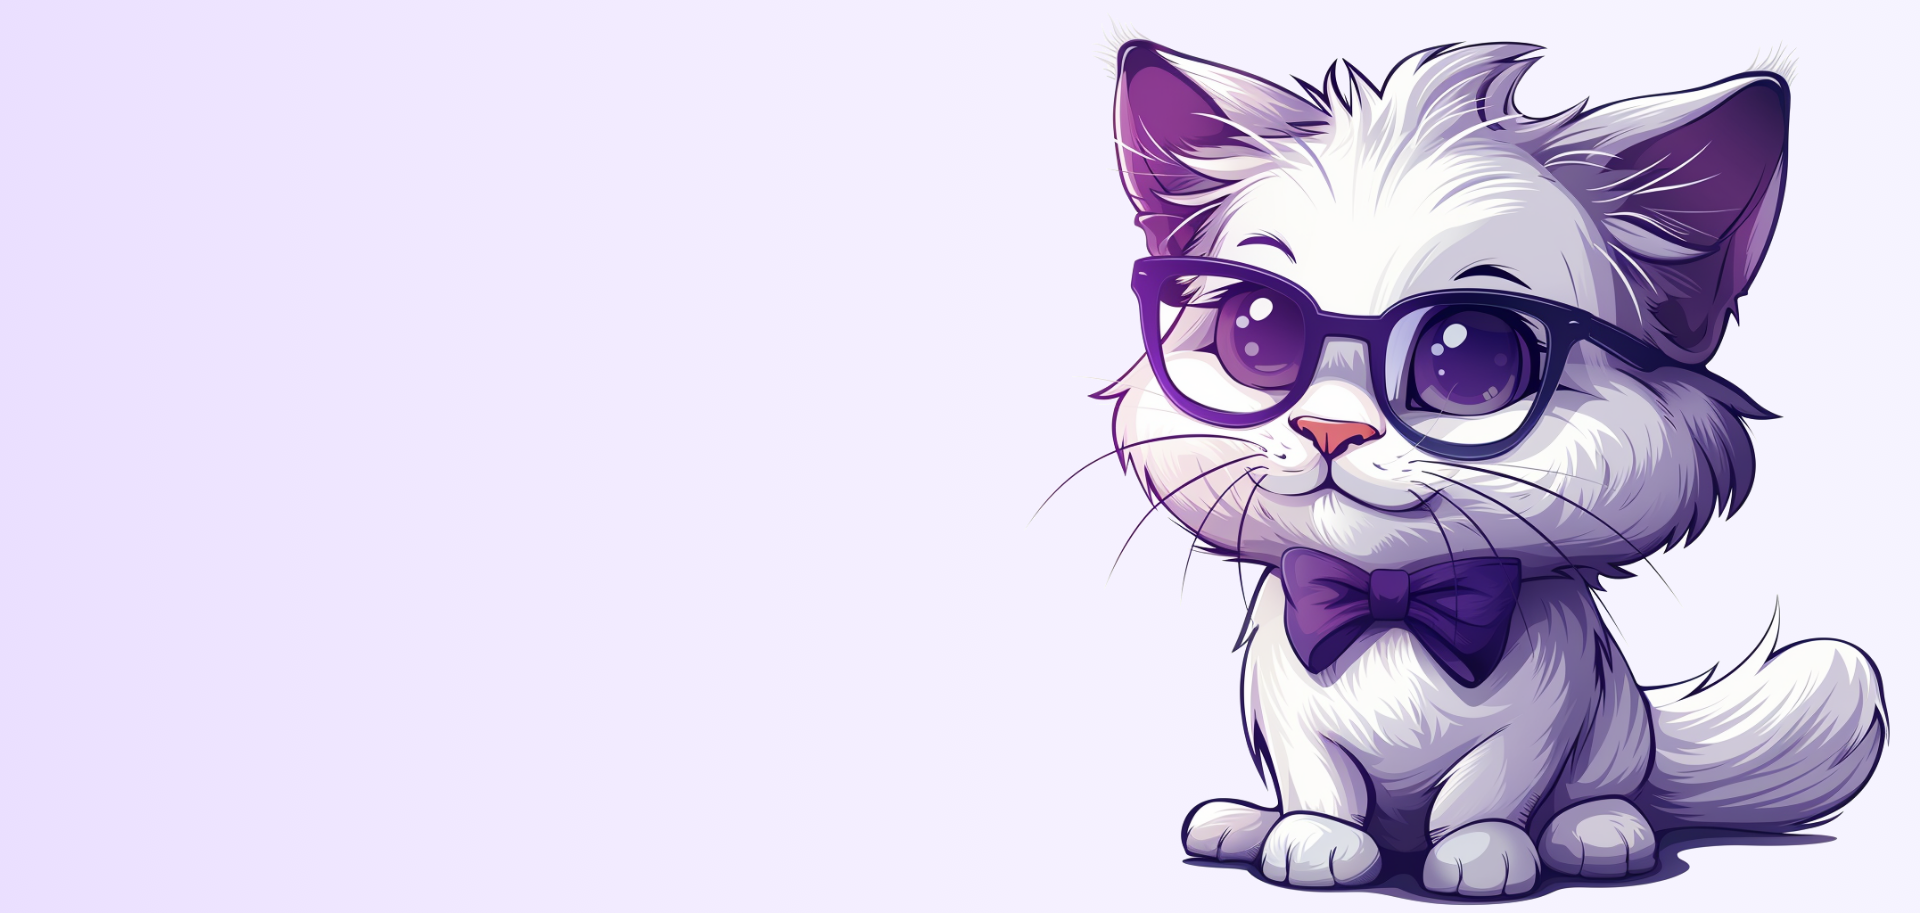
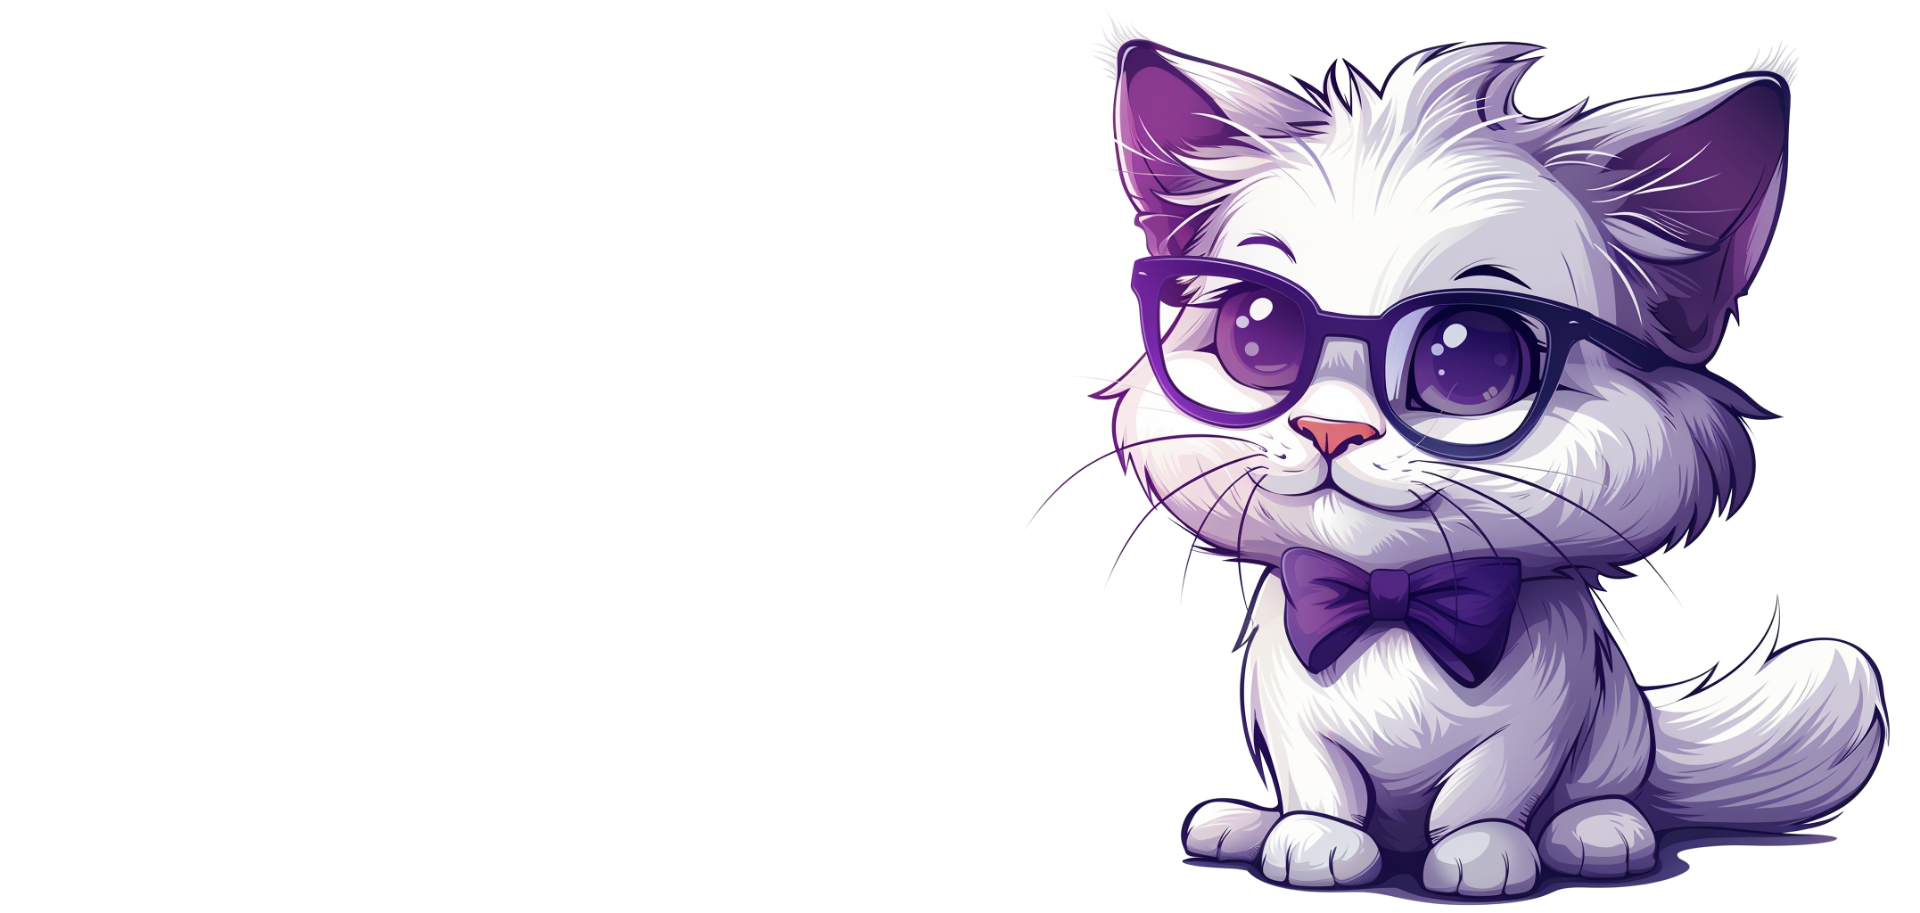
hero

Changed region(s): [[0.0, 0.0, 0.1875, 1.0]]

diff --git a/components/Hero.tsx b/components/Hero.tsx
@@ -1,16 +1,45 @@
+import Image from "next/image"
+
 const Hero = () => {
   return (
-    <section id="home" className="h-[80vh] bg-blue-300 lg:h-[912px]">
-      <div className="max-auto container">
-        <div className="flex h-full justify-end pt-48">
-          <div>
-            <h1 className="h1 text-violet-900">
-              CLUMSY<span className="text-violet-500">CAT</span>
-            </h1>
+    <div className="h-full w-full bg-gradient-to-b from-transparent via-violet-100 to-violet-300">
+      <section
+        id="home"
+        className="md:bg-hero md:bg-md lg:bg-lg mt-[70px] h-[calc(100vh-70px)] bg-none bg-center bg-no-repeat lg:h-[912px]"
+        // className="to-background_light via-background_light h-[80vh] bg-gradient-to-t from-violet-300 lg:h-[912px]"
+      >
+        <div className="container mx-auto h-full">
+          <div className="flex h-full flex-col justify-between pt-12 sm:flex-row sm:pt-48">
+            <div className="h-ful flex flex-col">
+              <div className="mb-8">
+                <h1 className="h1 text-violet-900">
+                  CLUMSY
+                  <span className="h1 hidden text-violet-500 sm:inline-block">
+                    CAT
+                  </span>
+                </h1>
+                <h1 className="h1 text-violet-500 sm:hidden">CAT</h1>
+              </div>
+              {/* Description */}
+              <div className="md:w-[50%] lg:pl-2">
+                <p className=" md:h5 lg:h4 font- text-lg text-violet-900">
+                  Embrace the whimsy of innovation with ClumsyCat Token—where
+                  Fluffy&apos;s fumbles fuel your fortune
+                </p>
+              </div>
+              {/* Buttons */}
+            </div>
+            <Image
+              className="mb-7 md:hidden"
+              src="/img/hero/fluffy-transparent.png"
+              width={600}
+              height={600}
+              alt="Hero"
+            />
           </div>
         </div>
-      </div>
-    </section>
+      </section>
+    </div>
   )
 }
 

diff --git a/tailwind.config.ts b/tailwind.config.ts
@@ -22,6 +22,17 @@ const config: Config = {
       roboto: "var(--font-roboto)",
     },
     extend: {
+      backgroundImage: {
+        hero: "url(/img/hero/fluffy-hero-wide.png)",
+      },
+      backgroundSize: {
+        auto: "auto",
+        cover: "cover",
+        contain: "contain",
+        lg: "1800px",
+        md: "1000px",
+        sm: "600px",
+      },
       colors: {
         /* primary */
         primary0: "#000000",

diff --git a/components/MobileNav.tsx b/components/MobileNav.tsx
@@ -24,7 +24,7 @@ const MobileNav = ({
   navState: [boolean, Dispatch<SetStateAction<boolean>>]
 }) => {
   const isMobile = useMediaQuery({ query: "(max-width: 640px)" })
-  const [openNav, setOpenNav] = navState
+  const [_, setOpenNav] = navState
   return (
     <nav className={cn(containerStyles)}>
       {links.map((link, index) => {

diff --git a/app/globals.css b/app/globals.css
@@ -17,7 +17,7 @@
   }
 
   .h1 {
-    @apply text-7xl tracking-[-3px] text-on_surface_light lg:text-[128px];
+    @apply text-on_surface_light text-7xl tracking-[-1px] lg:text-[128px];
   }
 
   .h2 {
